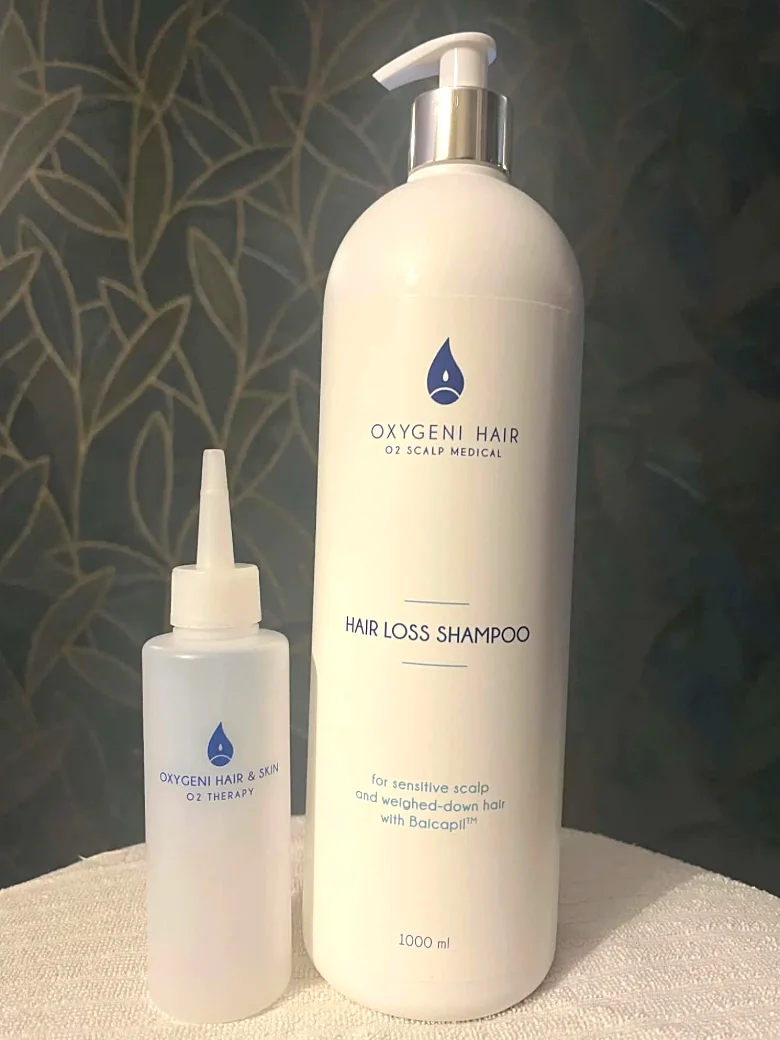
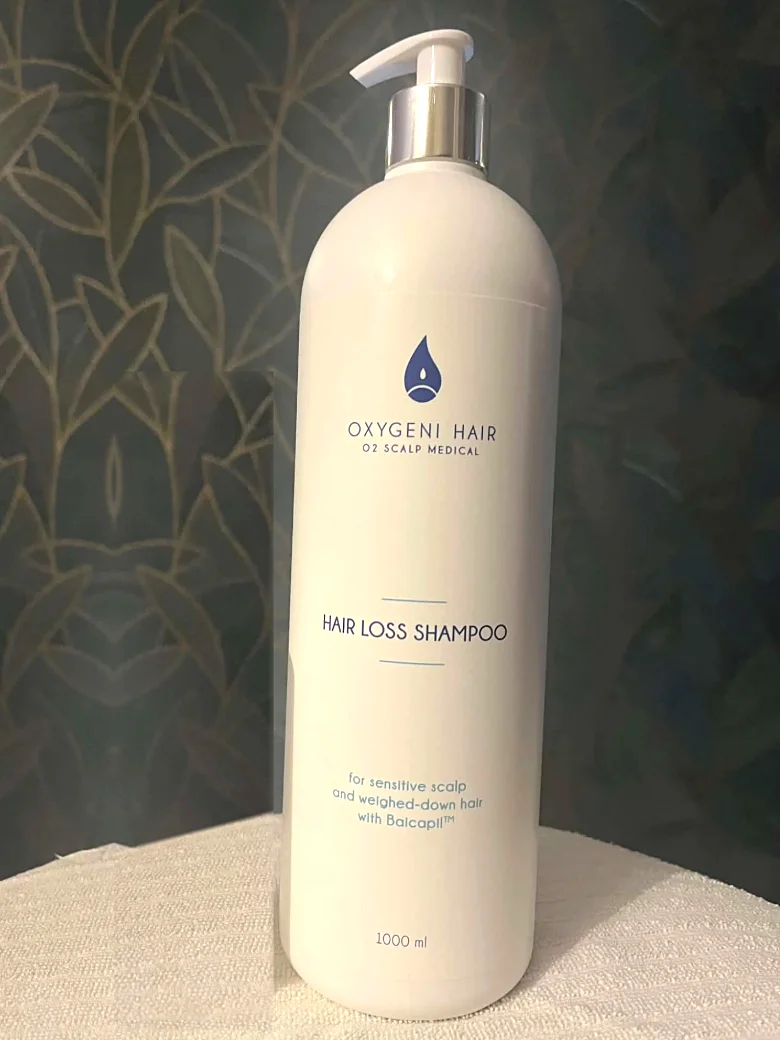
Oxigen: berlet = 5/10 x 26 000 Ft (az elso kezeles kulon), gomb nelkul, az ajandek piaci erteke + megtakaritas, kis uveg kiretusalva a fotorol

diff --git a/foglalas/oxigenterapia-budapest.html b/foglalas/oxigenterapia-budapest.html
@@ -452,12 +452,14 @@
 </section>
 
 <!-- ============ 9b. AJANDEK SAMPON-MINTA + BERLETEK ============ -->
-<!-- Berlet-arak: 1. alkalom 29 900 Ft + tovabbi alkalmak 26 000 Ft/alkalom (Salonic) -> 5 alkalom = 133 900 Ft, 10 alkalom = 263 900 Ft (ugyanannyi, mint alkalmankent; az elony a termekajandek) -->
+<!-- Berlet-arak: az 1. kezeles (29 900 Ft) KULON, a berlet a tovabbi alkalmakra szol: 5 x 26 000 = 130 000 Ft, 10 x 26 000 = 260 000 Ft (ugyanannyi, mint alkalmankent; az elony a termekajandek).
+     Az ajandek erteke: az Oxygeni hivatalos magyar webshopjanak ara (webshop.oxygenihair.com, 2026-10-07): Hair Loss Shampoo 1000 ml = 19 800 Ft, Hair Loss Mask (balzsam) 1000 ml = 28 000 Ft -> 5 alkalom: 19 800 Ft, 10 alkalom: 47 800 Ft. Ha az ar valtozik, itt es a GYIK-ban is at kell irni. -->
 <section class="ajandekok" id="berlet" aria-labelledby="ajandek-cim">
   <div class="tartalom">
     <header class="aj-fej">
       <p class="aj-felcim">Ajándékok</p>
       <h2 id="ajandek-cim">Oxygeni termékek ajándékba</h2>
+      <p class="aj-alcim">Sampon-minta a konzultáció mellé, a bérlet mellé pedig akár 47 800 Ft értékű termék.</p>
     </header>
 
     <article class="aj-kartya aj-minta">
@@ -474,34 +476,39 @@
       <div class="aj-szoveg">
         <p class="aj-badge"><svg aria-hidden="true"><use href="#i-kartya"/></svg>Bérlet · nem kötelező</p>
         <h3>5 vagy 10 alkalmas bérlet, termékajándékkal</h3>
-        <p>A bérlet nem forintban ad kedvezményt: ugyanannyiba kerül, mintha alkalmanként fizetnél. Az előnye az ajándék: otthoni Oxygeni termék, amely legalább fél évre elegendő.</p>
+        <p>A bérlet nem forintban ad kedvezményt: ugyanannyiba kerül, mintha alkalmanként (26 000 Ft / alkalom) fizetnél. Az előnye az ajándék: otthoni Oxygeni termékek 1 literes kiszerelésben, amelyek legalább fél évre elegendők.</p>
         <div class="berlet-sor">
           <div class="berlet-doboz">
             <p class="b-cim">5 alkalmas bérlet</p>
-            <p class="b-ar">133 900 Ft</p>
-            <p class="b-szamitas">Ugyanannyi, mint alkalmanként: 29 900 Ft + 4 × 26 000 Ft</p>
+            <p class="b-ar">130 000 Ft</p>
+            <p class="b-szamitas">5 × 26 000 Ft, ugyanannyi, mint alkalmanként</p>
             <div class="b-ajandek">
-              <p class="b-ajandek-cim">Ajándékba</p>
-              <p class="b-ajandek-nev">1 literes Oxygeni sampon</p>
-              <p class="b-ajandek-kis">legalább fél évre elegendő adag</p>
+              <p class="b-ajandek-cim">Ajándékba kapod</p>
+              <ul class="b-tetelek">
+                <li><span class="b-tn">1 literes Oxygeni sampon<small>Hair Loss Shampoo</small></span><span class="b-piac">19 800 Ft</span></li>
+              </ul>
+              <p class="b-ajandek-kis">Legalább fél évre elegendő adag. Az áthúzott ár az Oxygeni webshop ára.</p>
+              <p class="b-sporolas"><span>Ennyit spórolsz</span><b>19 800 Ft</b></p>
             </div>
           </div>
           <div class="berlet-doboz kiemelt">
             <p class="b-szalag">Sampon + balzsam</p>
             <p class="b-cim">10 alkalmas bérlet</p>
-            <p class="b-ar">263 900 Ft</p>
-            <p class="b-szamitas">Ugyanannyi, mint alkalmanként: 29 900 Ft + 9 × 26 000 Ft</p>
+            <p class="b-ar">260 000 Ft</p>
+            <p class="b-szamitas">10 × 26 000 Ft, ugyanannyi, mint alkalmanként</p>
             <div class="b-ajandek">
-              <p class="b-ajandek-cim">Ajándékba</p>
-              <p class="b-ajandek-nev">1 literes Oxygeni sampon + Oxygeni balzsam</p>
-              <p class="b-ajandek-kis">mindkettő legalább fél évre elegendő adag</p>
+              <p class="b-ajandek-cim">Ajándékba kapod</p>
+              <ul class="b-tetelek">
+                <li><span class="b-tn">1 literes Oxygeni sampon<small>Hair Loss Shampoo</small></span><span class="b-piac">19 800 Ft</span></li>
+                <li><span class="b-tn">1 literes Oxygeni balzsam<small>Hair Loss Mask</small></span><span class="b-piac">28 000 Ft</span></li>
+              </ul>
+              <p class="b-ajandek-kis">Mindkettő legalább fél évre elegendő adag. Az áthúzott ár az Oxygeni webshop ára.</p>
+              <p class="b-sporolas"><span>Ennyit spórolsz</span><b>47 800 Ft</b></p>
             </div>
           </div>
         </div>
-        <div class="aj-cta">
-          <a class="gomb gomb-arany" href="tel:+36202474444">Bérletről kérdezek: 06 20 247 4444</a>
-          <p class="aj-megj">Nem kötelező: alkalmanként is fizethetsz.</p>
-        </div>
+        <p class="aj-megj">Az első kezelés (29 900 Ft) külön fizetendő, a bérlet a további alkalmakra szól. A bérlet nem kötelező: alkalmanként is fizethetsz.</p>
+        <p class="aj-forras">Az ajándék értéke az Oxygeni hivatalos webshopjának árai alapján (2026. október 7.): <a href="https://webshop.oxygenihair.com/termek/hair-loss-shampoo/" target="_blank" rel="noopener">Hair Loss Shampoo, 1000 ml</a> és <a href="https://webshop.oxygenihair.com/termek/hair-loss-mask/" target="_blank" rel="noopener">Hair Loss Mask, 1000 ml</a>.</p>
       </div>
     </article>
   </div>
@@ -533,7 +540,7 @@
         <details><summary>Az állapotfelmérés orvosi diagnózis?</summary><p>Nem. A hajkamerás vizsgálat a fejbőr és a hajszálak állapotának megfigyelésére szolgál, hogy a kezelést személyre szabhassuk. Nem helyettesíti az orvosi vizsgálatot, és nem állít fel orvosi diagnózist.</p></details>
         <details><summary>Hirtelen erős hajhullásom van. Foglaljak?</summary><p>Erős, hirtelen vagy ismeretlen eredetű hajhullásnál először érdemes orvoshoz (például bőrgyógyászhoz) fordulni, mert hátterében egészségügyi ok is állhat. Ha mellette szeretnéd felmérni a fejbőröd állapotát, szívesen megnézzük, és őszintén megmondjuk, miben tudunk segíteni.</p></details>
         <details><summary>Fizethetek SZÉP Kártyával?</summary><p>Igen, a SZÉP Kártyát is elfogadjuk.</p></details>
-        <details><summary>Kell előre bérletet vennem?</summary><p>Nem. Nálunk nincs kötelező bérlet: alkalmanként fizetsz, csak azért, amit igénybe veszel. A 2. alkalomtól az ár 26 000 Ft / alkalom. Ha előre szeretnél tervezni, 5 vagy 10 alkalmas bérletet is választhatsz: ugyanannyiba kerül, mintha alkalmanként fizetnél, és termékajándék jár hozzá (5 alkalomnál 1 literes Oxygeni sampon, 10 alkalomnál sampon és balzsam, legalább fél évre elegendő adagban).</p></details>
+        <details><summary>Kell előre bérletet vennem?</summary><p>Nem. Nálunk nincs kötelező bérlet: alkalmanként fizetsz, csak azért, amit igénybe veszel. A 2. alkalomtól az ár 26 000 Ft / alkalom. Ha előre szeretnél tervezni, 5 vagy 10 alkalmas bérletet is választhatsz a további alkalmakra (az első kezelés, 29 900 Ft, külön van): ugyanannyiba kerül, mintha alkalmanként fizetnél (5 × 26 000 = 130 000 Ft, illetve 10 × 26 000 = 260 000 Ft), és termékajándék jár hozzá: 5 alkalomnál 1 literes Oxygeni sampon (19 800 Ft értékben), 10 alkalomnál 1 literes sampon és balzsam (együtt 47 800 Ft értékben), legalább fél évre elegendő adagban.</p></details>
         <details><summary>Ki végzi a kezelést?</summary><p>Oxigénterápiás képzést elvégzett, gyakorlott kezelőink: Bozsoki-Harangozó Tündi, Szűcs Vivien és Menyhárt Móni. Foglaláskor kiválaszthatod, kinél szeretnél időpontot, vagy a legkorábbi szabad időpontot is választhatod.</p></details>
         <details><summary>Kinek nem ajánlott a kezelés?</summary><p>Ellenjavallat: láz, nátha, felső légúti hurut, erős allergia, bizonyos citosztatikus terápiák. Tartósan kizáró ok: spontán légmell az előzményben, jelentős obstruktív légúti betegség, súlyos asztma, COPD, egyes fülműtétek utáni állapot, kongenitális szferocitózis, pacemaker, gennyes, sebes, vérző fejbőr. Ha bizonytalan vagy, a foglalás előtt jelezd, és átbeszéljük.</p></details>
         <details><summary>Mire kell figyelnem a kezelés előtt és után?</summary><p>Előtte: a kezelés előtt 48 órával ne moss hajat, kerüld a kávét, az alkoholt és a szénsavas üdítőket, hajfestés, szőkítés vagy hajegyenesítés előtt és után pedig legalább 10 nap szünetet tarts. Utána: 24–48 óráig ne moss hajat, 12 óráig ne sportolj és ne szaunázz, 10 napig ne legyen hajfestés, szőkítés vagy vegyi kezelés.</p></details>

diff --git a/assets/css/oxigen-landing.css b/assets/css/oxigen-landing.css
@@ -643,13 +643,22 @@ a:hover .nyil, button:hover .nyil { transform: translateX(3px); }
 .b-cim { font: 600 12.5px/1.2 var(--test); letter-spacing: .12em; text-transform: uppercase; color: var(--arany-v); }
 .b-ar { font: 500 40px/1.05 var(--cim); color: #fff; margin: 8px 0 8px; letter-spacing: -.02em; white-space: nowrap; }
 .b-szamitas { font-size: 13.5px; line-height: 1.4; color: #aebdbb; }
-.b-ajandek { margin-top: 16px; padding-top: 14px; border-top: 1px solid rgba(255, 255, 255, .15); }
+.b-ajandek { margin-top: 16px; padding-top: 14px; border-top: 1px solid rgba(255, 255, 255, .15); display: flex; flex-direction: column; flex: 1; }
 .b-ajandek-cim { font: 600 11.5px/1 var(--test); letter-spacing: .12em; text-transform: uppercase; color: var(--arany-v); }
-.b-ajandek-nev { font: 500 20px/1.25 var(--cim); color: #fff; margin-top: 8px; }
-.b-ajandek-kis { font-size: 13.5px; color: #aebdbb; margin-top: 5px; }
-.aj-cta { display: flex; align-items: center; flex-wrap: wrap; gap: 14px 20px; margin-top: 26px; }
-.aj-cta .gomb { padding: 15px 26px; font-size: 16px; }
-.aj-megj { font-size: 14px; color: #aebdbb; }
+.b-tetelek { display: grid; gap: 10px; margin-top: 10px; }
+.b-tetelek li { display: flex; align-items: baseline; justify-content: space-between; gap: 12px; }
+.b-tn { font: 500 19px/1.2 var(--cim); color: #fff; }
+.b-tn small { display: block; font: 400 12.5px/1.3 var(--test); letter-spacing: .02em; color: #aebdbb; margin-top: 3px; }
+.b-piac { flex: none; font: 500 16px/1.2 var(--test); color: #c4d0ce; text-decoration: line-through; text-decoration-color: rgba(217, 193, 100, .9); text-decoration-thickness: 1.5px; white-space: nowrap; }
+.b-ajandek-kis { font-size: 13px; line-height: 1.4; color: #aebdbb; margin-top: 10px; }
+.b-sporolas { margin-top: auto; padding: 12px 16px; display: flex; align-items: center; justify-content: space-between; gap: 12px; border-radius: 14px; background: var(--arany-gomb); color: #2b2205; box-shadow: 0 8px 18px rgba(0, 0, 0, .25); }
+.b-ajandek-kis + .b-sporolas { margin-top: 16px; }
+.b-sporolas span { font: 600 12.5px/1.2 var(--test); letter-spacing: .1em; text-transform: uppercase; }
+.b-sporolas b { font: 600 28px/1 var(--cim); letter-spacing: -.01em; white-space: nowrap; }
+.aj-alcim { margin: 14px auto 0; max-width: 40em; font-size: 18px; line-height: 1.45; color: #e3ece9; }
+.aj-megj { font-size: 14.5px; line-height: 1.45; color: #cbd6d3; margin-top: 22px; }
+.aj-forras { font-size: 12.5px; line-height: 1.45; color: #94a6a3; margin-top: 8px; }
+.aj-forras a { color: #c9b28a; text-underline-offset: 2px; }
 @media (max-width: 1100px) {
   .aj-kartya { gap: 32px; }
   .aj-minta { grid-template-columns: 240px minmax(0, 1fr); }
@@ -667,5 +676,6 @@ a:hover .nyil, button:hover .nyil { transform: translateX(3px); }
   .aj-szoveg h3 { font-size: 25px; }
   .aj-szoveg > p:not(.aj-badge) { font-size: 16px; }
   .b-ar { font-size: 36px; }
-  .aj-cta .gomb { width: 100%; padding: 15px 14px; font-size: 15.5px; }
+  .aj-alcim { font-size: 16.5px; }
+  .b-sporolas b { font-size: 26px; }
 }

diff --git a/OXIGEN-LANDING.md b/OXIGEN-LANDING.md
@@ -107,11 +107,14 @@ Az oldalon nincsenek a címek fölötti kis (sárga) alcímek. Az arany pill-gom
 Új szekció (`#berlet`, `.ajandekok`) az „Mivel kezdjünk?” (árak) szekció után, a „Miért más nálunk” előtt; sötét zöld háttér, két kártya:
 
 - **Ajándék Oxygeni sampon-minta minden konzultáció mellé** (fotó: `assets/img/oxigen/ajandek-minta.webp`, a tulajdonos képéből kivágva és enyhén retusálva).
-- **5 vagy 10 alkalmas bérlet, termékajándékkal** (fotó: `ajandek-berlet.webp`): **5 alkalom = 133 900 Ft** (ajándék: 1 literes Oxygeni sampon), **10 alkalom = 263 900 Ft** (ajándék: 1 literes sampon + balzsam); mindkettő legalább fél évre elegendő adag.
+- **5 vagy 10 alkalmas bérlet, termékajándékkal** (fotó: `ajandek-berlet.webp`, a kis mintaüveg a háttér kitöltésével kiretusálva, hogy ne tűnjön ajándéknak a bérletnél):
+  - **5 alkalom = 130 000 Ft** (5 × 26 000), ajándék: 1 literes Oxygeni sampon (**19 800 Ft** értékben);
+  - **10 alkalom = 260 000 Ft** (10 × 26 000), ajándék: 1 literes sampon + 1 literes balzsam (**19 800 + 28 000 = 47 800 Ft** értékben);
+  - mindkettő legalább fél évre elegendő adag; a dobozokban látványos „Ennyit spórolsz” sáv, az áthúzott ár az Oxygeni webshop ára.
 
 Szabályok / döntések:
-- A bérlet **nem ad forintkedvezményt**: az ár = az alkalmankénti fizetés összege (1. alkalom 29 900 Ft + a továbbiak 26 000 Ft/alkalom: 29 900 + 4 × 26 000 = 133 900; 29 900 + 9 × 26 000 = 263 900). Ha a Salonic-ár változik, a két összeget és a `b-szamitas` sorokat is át kell írni (a HTML-ben megjegyzés jelzi a képletet).
+- **Az első kezelés (29 900 Ft) külön van, a bérlet a további alkalmakra szól** (tulajdonosi pontosítás, 2026-10-07). A bérlet **nem ad forintkedvezményt**: az ár = alkalmankénti fizetés (26 000 Ft/alkalom); az előny a termékajándék.
+- **Piaci ár forrása:** az Oxygeni hivatalos magyar webshopja (webshop.oxygenihair.com), 2026-10-07: Hair Loss Shampoo 1000 ml = 19 800 Ft, Hair Loss Mask 1000 ml = 28 000 Ft (a „balzsam” az Oxygeni vonalon a Hair Loss Mask, ami a leírása szerint kondicionálóként is használható). Ha az árak változnak, a HTML-ben (`.b-piac`, `.b-sporolas`, az `.aj-alcim` és a GYIK) át kell írni; a forrás-sor a szekció alján linkel.
 - Az oldalon továbbra is igaz: **nincs kötelező bérlet** (a szekcióban és a GYIK-ban is így szerepel).
 - A „konzultáció” = hajkamerás állapotfelmérés + konzultáció (a 4 990 Ft-os, illetve az első kezelés része); az „ingyenes” szó direkt nincs ott, mert az állapotfelmérés fizetős.
-- A bérlet vásárlási útja nincs a Salonicban/oldalon kidolgozva: a gomb csak telefonhívás (`tel:`), `data-cta` nélkül, így nem küld mérési eseményt.
-- A balzsamról nincs fotó, ezért csak szöveg szerepel; az ajándék nevét (Oxygeni balzsam) a tulajdonos adta.
+- A bérletnek nincs gombja (a tulajdonos kérésére); a vásárlás útja nincs az oldalon kidolgozva. Nincs `data-cta`, nem küld mérési eseményt.
